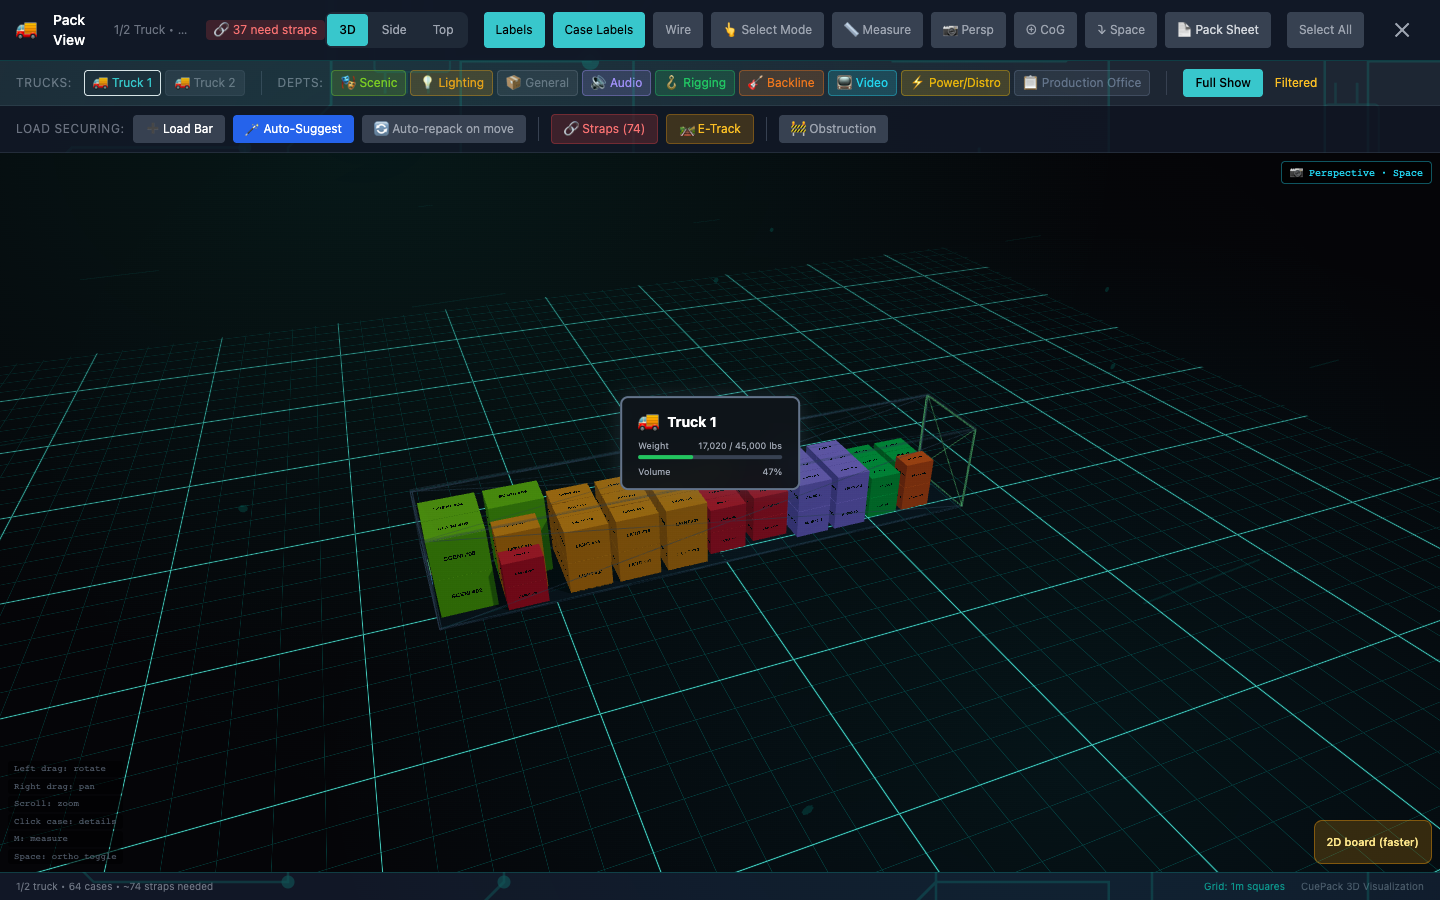
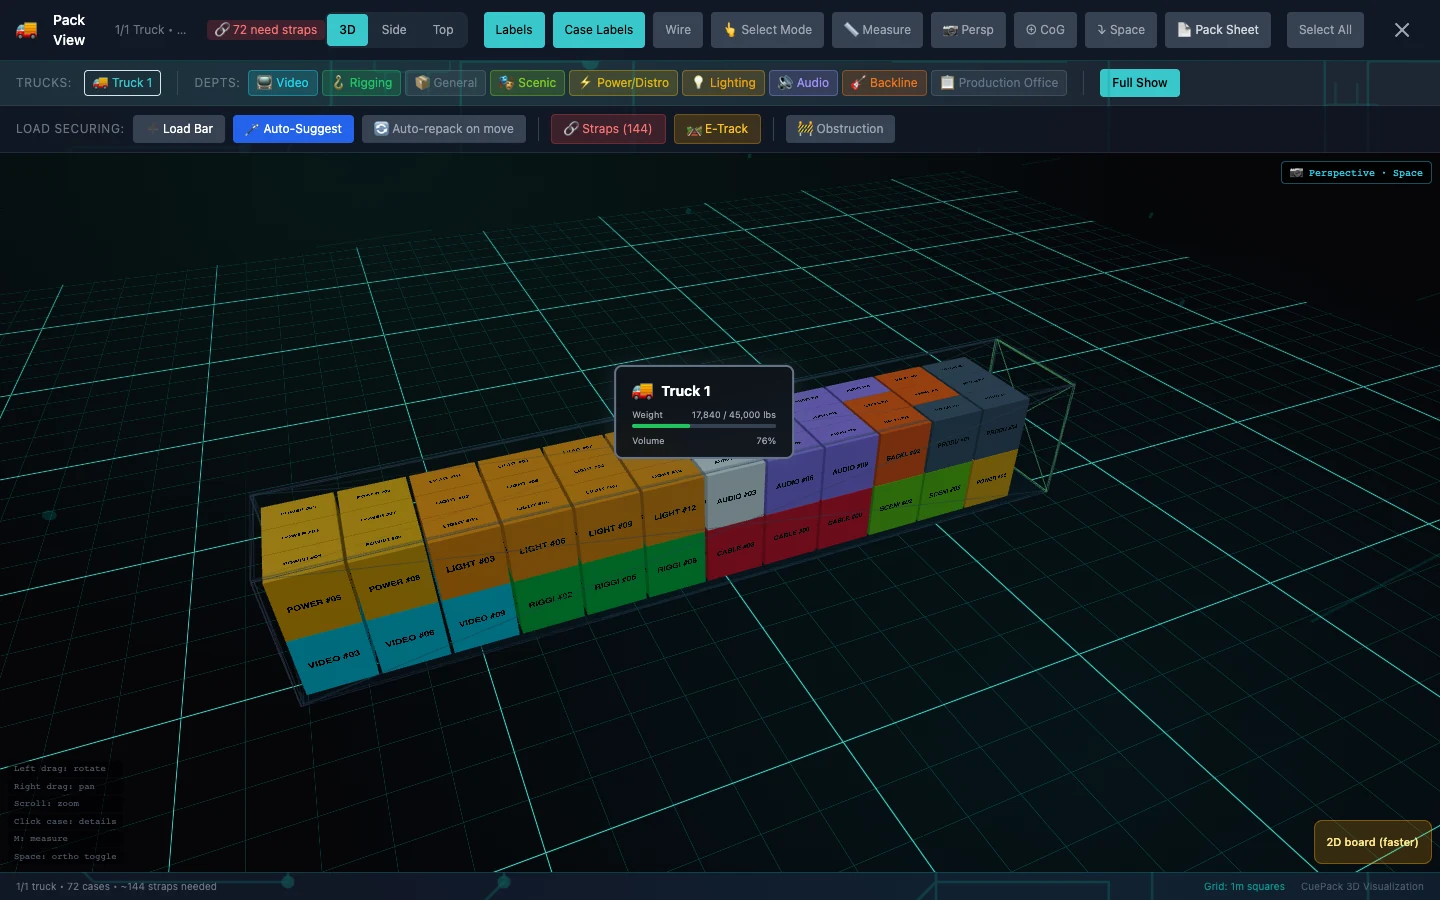
fix: replace loose CuePack truck screenshot

diff --git a/cuepack.html b/cuepack.html
@@ -219,9 +219,9 @@
           <figure class="plate">
             <figcaption class="plate-bar"><span class="dot" aria-hidden="true"></span> CuePack &mdash; Group-aware 3D Pack</figcaption>
             <div class="plate-stage">
-              <img src="images/app-screenshots/cuepack/truck-pack-3d-populated.webp" width="1440" height="900" alt="CuePack's populated 3D Pack View showing coloured cases by department inside a 53-foot trailer, with 3D, side and top view modes, labels, wireframe, measurement, centre-of-gravity and pack-sheet controls, plus truck, department and load-securing filters." loading="lazy" decoding="async">
+              <img src="images/app-screenshots/cuepack/truck-pack-3d-populated.webp" width="1440" height="900" alt="CuePack's populated 3D Pack View showing one 53-foot trailer filled with 72 coloured cases in clean contiguous three-wide rows and two complete layers, reporting 76 percent volume and 17,840 pounds, with 3D, side and top view modes, labels, wireframe, measurement, centre-of-gravity and pack-sheet controls." loading="lazy" decoding="async">
             </div>
-            <p class="plate-note"><b>The suggested layout stays a draft.</b> Cases can be regrouped, manually placed and reviewed in top, side and 3D views; dimensions, load bars, straps, weight and volume remain crew decisions rather than a certification claim.</p>
+            <p class="plate-note"><b>A full truck should read like a planned wall, not scattered inventory.</b> This synthetic fixture gives CuePack's real pack worker 72 compatible declared cases; it returns one dense 53-foot trailer with 12 complete three-wide rows across two layers. The result remains an editable draft—not a weight certificate, axle check or legal load inspection.</p>
           </figure>
         </div>
 

diff --git a/.qa-final.py b/.qa-final.py
@@ -65,7 +65,7 @@ REELS = {
         (CPK + 'multimodal-pack-planner.webp',
[1 lines of base64/hex data omitted]
         (CPK + 'truck-pack-3d-populated.webp',
[2 lines of base64/hex data omitted]
         (CPK + 'pa-operations.webp',
[1 lines of base64/hex data omitted]
         (CPK + 'crew-day-interface.webp',

diff --git a/docs/CueForge Product Screenshot Provenance Manifest - 2026-07-29.md b/docs/CueForge Product Screenshot Provenance Manifest - 2026-07-29.md
@@ -92,7 +92,7 @@ private email, host, address or credential appears.
[7 lines of base64/hex data omitted]
 
